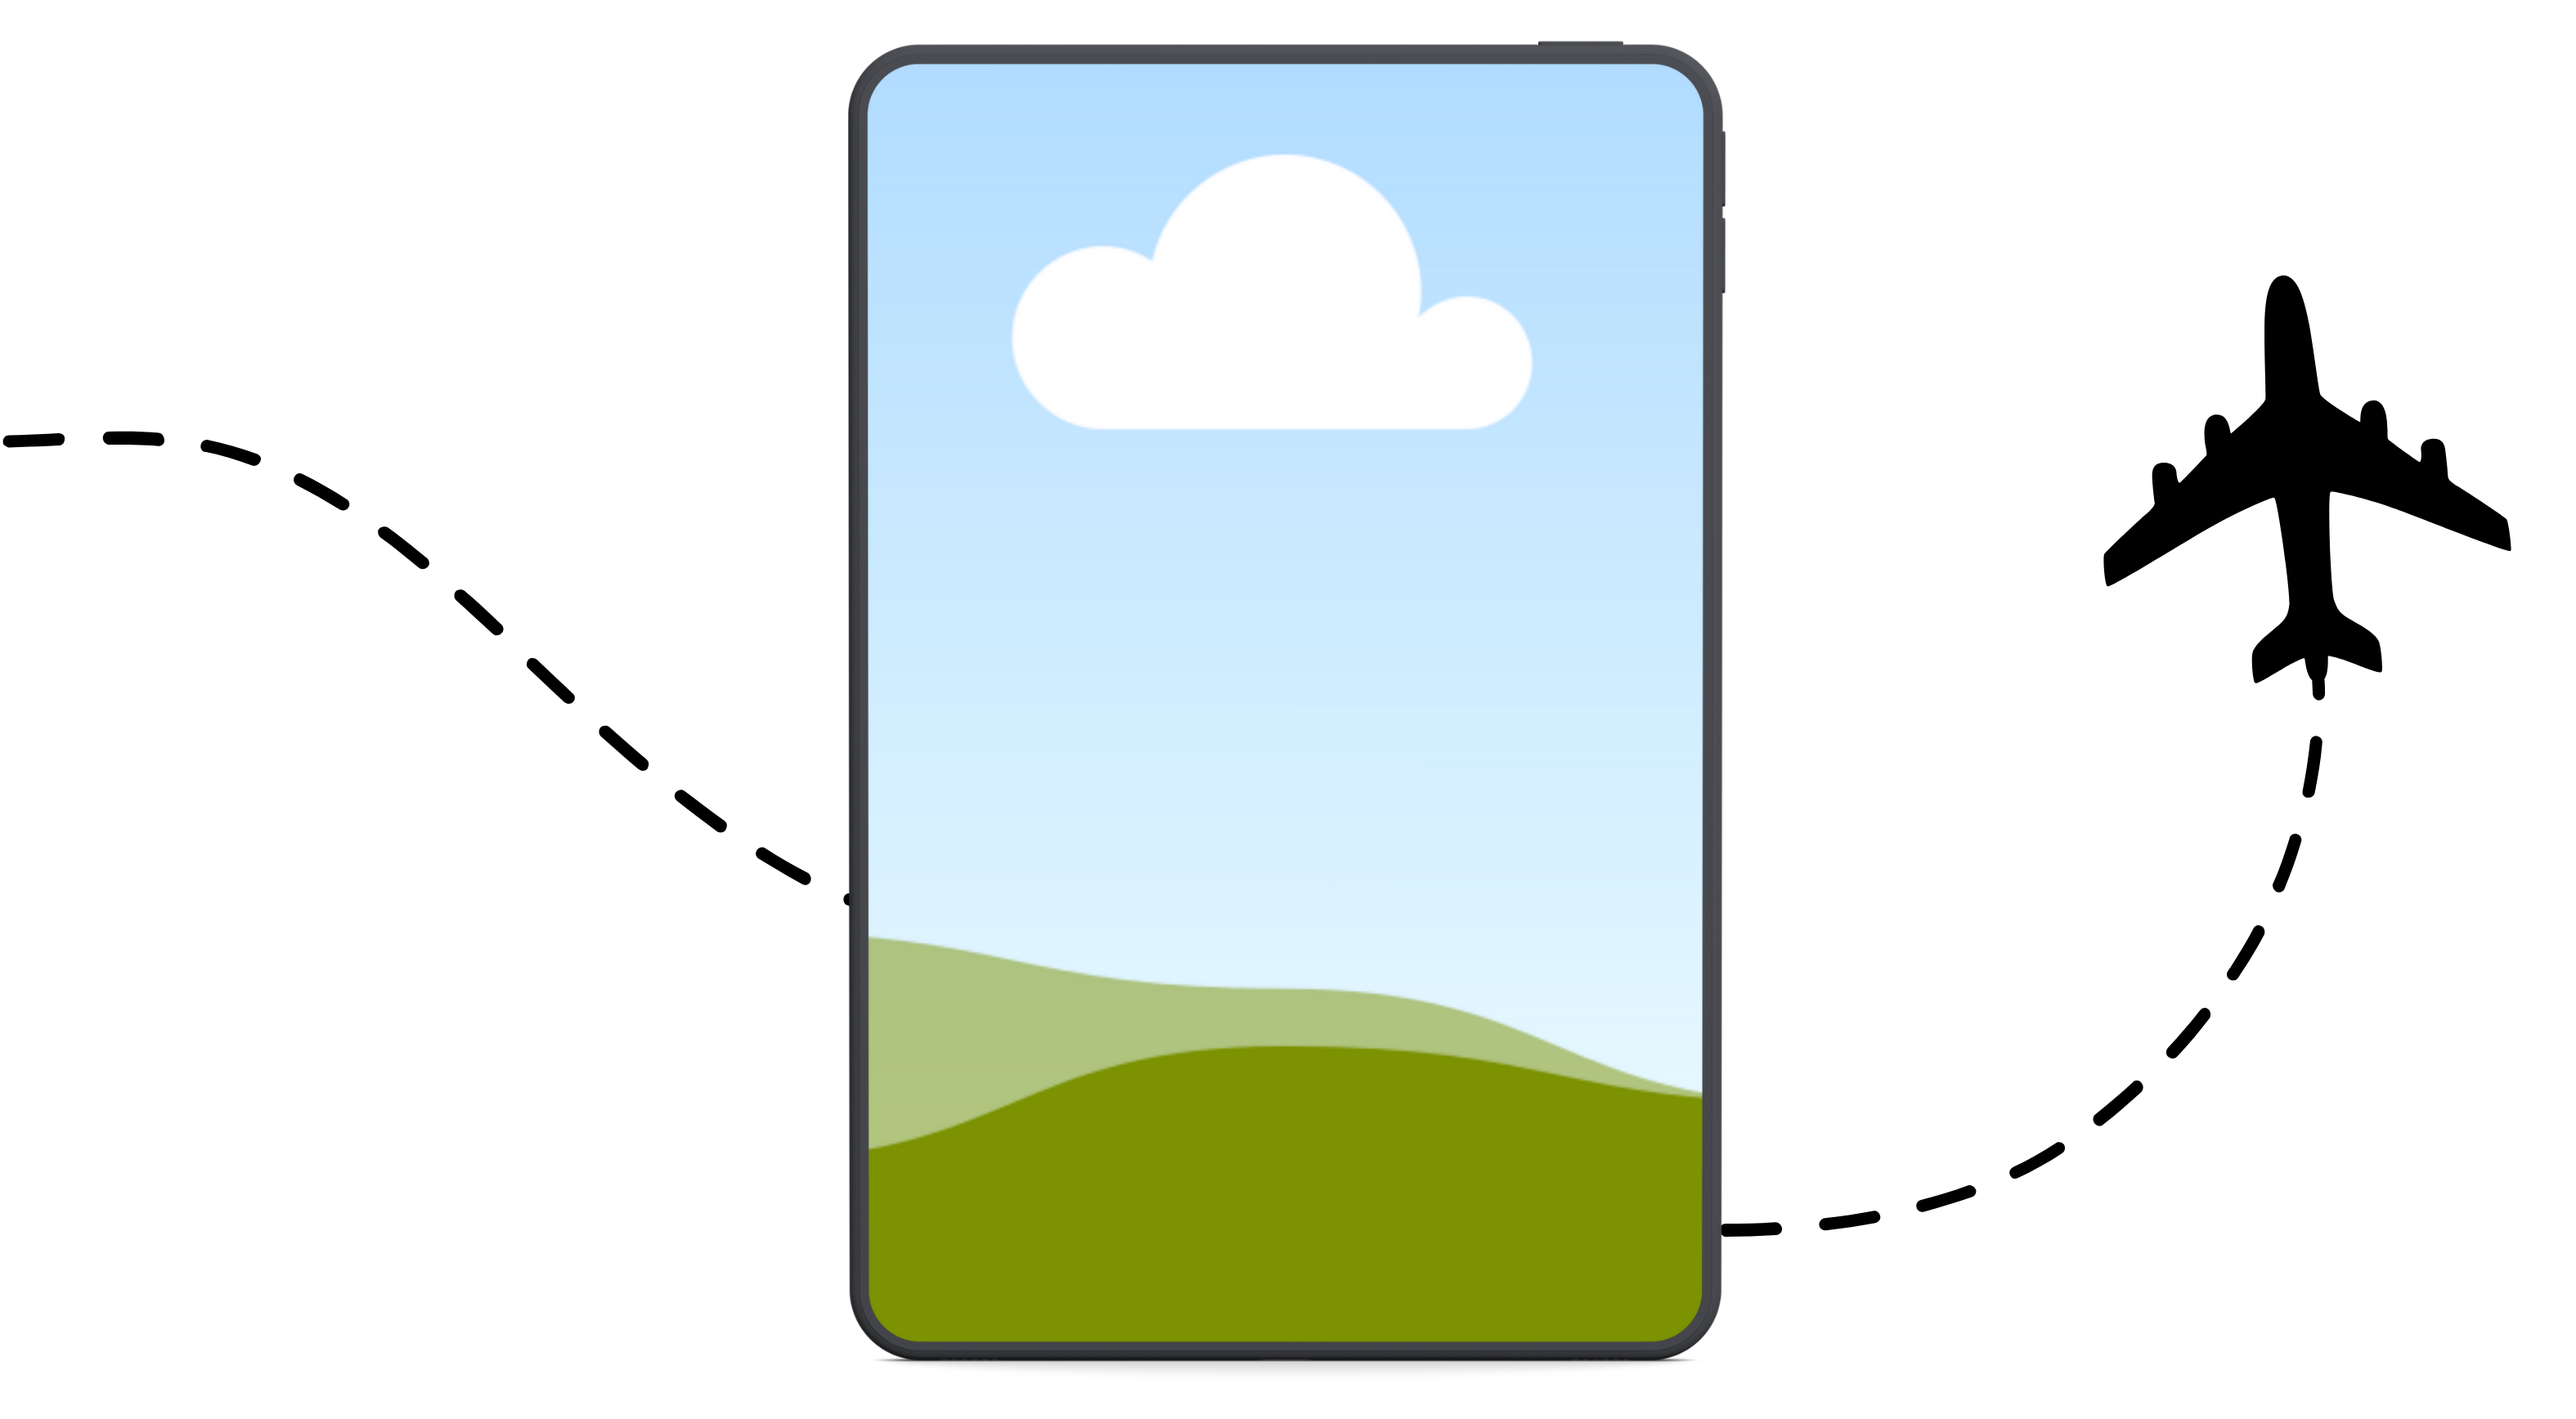
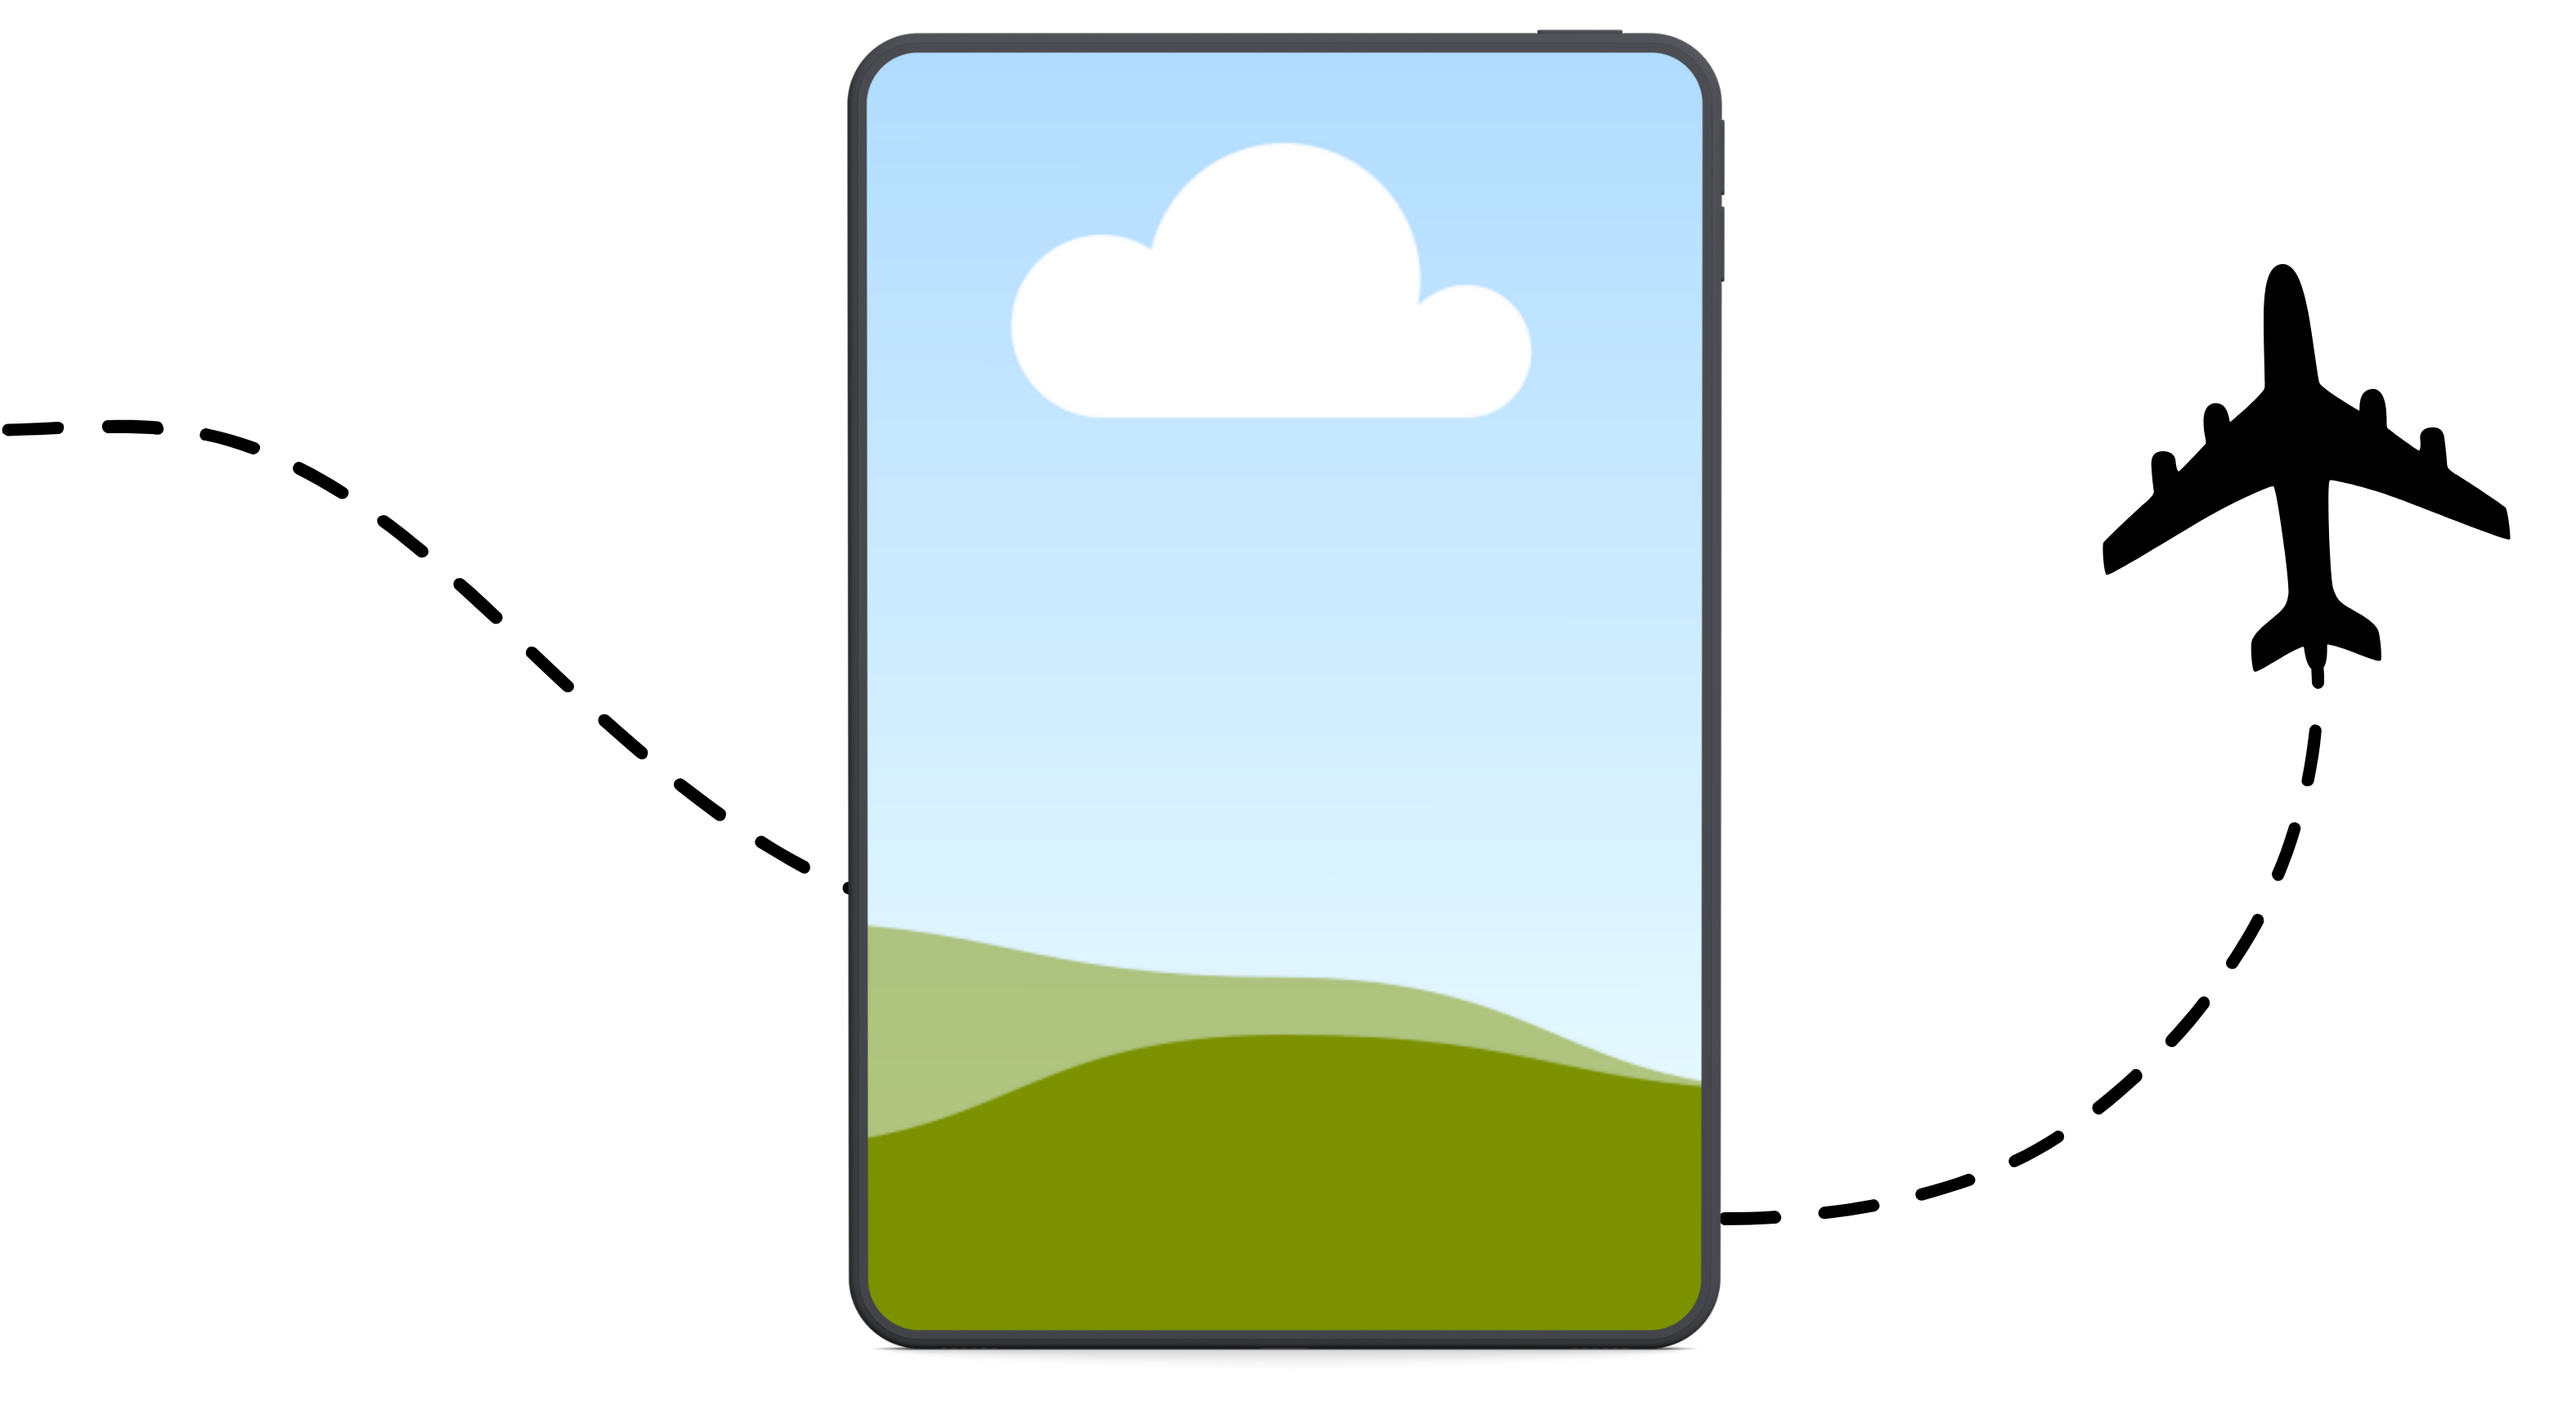
fix bug ajust

diff --git a/project.css b/project.css
@@ -2073,7 +2073,7 @@ body.light-mode .avion-dark {
     width: 335px;
     height: 700px;
     object-fit: cover;
-    border-radius: 10%;
+    border-radius: 3%;
 
 
 }
